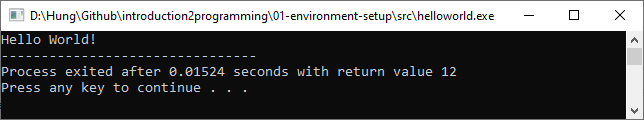
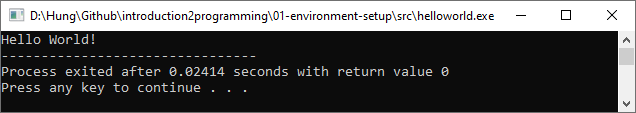
update

diff --git a/01-environment-setup/src/helloworld.c b/01-environment-setup/src/helloworld.c
@@ -4,6 +4,7 @@
 int main()
 {
 	printf("Hello World!");
+	return 0;
 }
 
 

diff --git a/01-environment-setup/devcpp/README.md b/01-environment-setup/devcpp/README.md
@@ -56,6 +56,7 @@ Chọn **File->New->Source File**, hoặc nhấn tổ hợp phím **Ctrl+N**, ho
 int main()
 {
 	printf("Hello World!");
+	return 0;
 }
 ```
 - Lưu file mã nguồn
